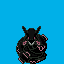
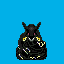
Update Rayquaza Statue

Changed region(s): [[0.25, 0.3438, 0.75, 1.0]]

diff --git a/src/data/object_events/object_event_graphics_info_pointers.h b/src/data/object_events/object_event_graphics_info_pointers.h
@@ -40,6 +40,7 @@ const struct ObjectEventGraphicsInfo gObjectEventGraphicsInfo_SchoolKidM;
 const struct ObjectEventGraphicsInfo gObjectEventGraphicsInfo_Maniac;
 const struct ObjectEventGraphicsInfo gObjectEventGraphicsInfo_HexManiac;
 const struct ObjectEventGraphicsInfo gObjectEventGraphicsInfo_RayquazaStill;
+const struct ObjectEventGraphicsInfo gObjectEventGraphicsInfo_RayquazaStatue;
 const struct ObjectEventGraphicsInfo gObjectEventGraphicsInfo_SwimmerM;
 const struct ObjectEventGraphicsInfo gObjectEventGraphicsInfo_SwimmerF;
 const struct ObjectEventGraphicsInfo gObjectEventGraphicsInfo_BlackBelt;
@@ -296,6 +297,7 @@ const struct ObjectEventGraphicsInfo *const gObjectEventGraphicsInfoPointers[NUM
     [OBJ_EVENT_GFX_MANIAC] =                   &gObjectEventGraphicsInfo_Maniac,
     [OBJ_EVENT_GFX_HEX_MANIAC] =               &gObjectEventGraphicsInfo_HexManiac,
     [OBJ_EVENT_GFX_RAYQUAZA_STILL] =           &gObjectEventGraphicsInfo_RayquazaStill,
+    [OBJ_EVENT_GFX_RAYQUAZA_STATUE] =          &gObjectEventGraphicsInfo_RayquazaStatue,
     [OBJ_EVENT_GFX_SWIMMER_M] =                &gObjectEventGraphicsInfo_SwimmerM,
     [OBJ_EVENT_GFX_SWIMMER_F] =                &gObjectEventGraphicsInfo_SwimmerF,
     [OBJ_EVENT_GFX_BLACK_BELT] =               &gObjectEventGraphicsInfo_BlackBelt,
@@ -424,7 +426,7 @@ const struct ObjectEventGraphicsInfo *const gObjectEventGraphicsInfoPointers[NUM
     [OBJ_EVENT_GFX_BIG_CHARIZARD_DOLL] =       &gObjectEventGraphicsInfo_BigCharizardDoll,
     [OBJ_EVENT_GFX_BIG_BLASTOISE_DOLL] =       &gObjectEventGraphicsInfo_BigBlastoiseDoll,
     [OBJ_EVENT_GFX_BIG_WAILMER_DOLL] =         &gObjectEventGraphicsInfo_BigWailmerDoll,
-    [OBJ_EVENT_GFX_BIG_REGIROCK_DOLL] =        &gObjectEventGraphicsInfo_BigRegirockDoll,
+    // [OBJ_EVENT_GFX_BIG_REGIROCK_DOLL] =        &gObjectEventGraphicsInfo_BigRegirockDoll,
     [OBJ_EVENT_GFX_BIG_REGICE_DOLL] =          &gObjectEventGraphicsInfo_BigRegiceDoll,
     [OBJ_EVENT_GFX_BIG_REGISTEEL_DOLL] =       &gObjectEventGraphicsInfo_BigRegisteelDoll,
     [OBJ_EVENT_GFX_LATIAS] =                   &gObjectEventGraphicsInfo_Latias,

diff --git a/src/data/object_events/object_event_graphics_info.h b/src/data/object_events/object_event_graphics_info.h
@@ -265,3 +265,5 @@ const struct ObjectEventGraphicsInfo gObjectEventGraphicsInfo_BigWailmerDoll = {
 const struct ObjectEventGraphicsInfo gObjectEventGraphicsInfo_BigRegirockDoll = {TAG_NONE, OBJ_EVENT_PAL_TAG_NPC_1, OBJ_EVENT_PAL_TAG_NONE, 512, 32, 32, 2, SHADOW_SIZE_M, TRUE, FALSE, TRACKS_NONE, &gObjectEventBaseOam_32x32, sOamTables_32x32, sAnimTable_Inanimate, sPicTable_BigRegirockDoll, gDummySpriteAffineAnimTable};
 const struct ObjectEventGraphicsInfo gObjectEventGraphicsInfo_BigRegiceDoll = {TAG_NONE, OBJ_EVENT_PAL_TAG_NPC_3, OBJ_EVENT_PAL_TAG_NONE, 512, 32, 32, 4, SHADOW_SIZE_M, TRUE, FALSE, TRACKS_NONE, &gObjectEventBaseOam_32x32, sOamTables_32x32, sAnimTable_Inanimate, sPicTable_BigRegiceDoll, gDummySpriteAffineAnimTable};
 const struct ObjectEventGraphicsInfo gObjectEventGraphicsInfo_BigRegisteelDoll = {TAG_NONE, OBJ_EVENT_PAL_TAG_NPC_4, OBJ_EVENT_PAL_TAG_NONE, 512, 32, 32, 5, SHADOW_SIZE_M, TRUE, FALSE, TRACKS_NONE, &gObjectEventBaseOam_32x32, sOamTables_32x32, sAnimTable_Inanimate, sPicTable_BigRegisteelDoll, gDummySpriteAffineAnimTable};
+
+const struct ObjectEventGraphicsInfo gObjectEventGraphicsInfo_RayquazaStatue = {TAG_NONE, OBJ_EVENT_PAL_RAYQUAZA_STATUE, OBJ_EVENT_PAL_TAG_NONE, 2048, 64, 64, 4, SHADOW_SIZE_M, FALSE, TRUE, TRACKS_FOOT, &gObjectEventBaseOam_64x64, sOamTables_64x64, sAnimTable_Standard, sPicTable_RayquazaStatue, gDummySpriteAffineAnimTable};

diff --git a/src/event_object_movement.c b/src/event_object_movement.c
@@ -458,7 +458,9 @@ const u8 gInitialMovementTypeFacingDirections[] = {
 #define OBJ_EVENT_PAL_TAG_DYNAMIC                 0x1124
 #define OBJ_EVENT_PAL_MOM                         0x1125
 #define OBJ_EVENT_PAL_OVERWORLD_SNORLAX           0x1126
-#define OBJ_EVENT_PAL_DAD               0x1127
+#define OBJ_EVENT_PAL_DAD                         0x1127
+#define OBJ_EVENT_PAL_RAYQUAZA                    0x1128
+#define OBJ_EVENT_PAL_RAYQUAZA_STATUE             0x1129
 #define OBJ_EVENT_PAL_TAG_LIGHT                   0x8001
 #define OBJ_EVENT_PAL_TAG_EMOTES                  0x8002
 #define OBJ_EVENT_PAL_TAG_NONE 0x11FF
@@ -514,6 +516,8 @@ static const struct SpritePalette sObjectEventSpritePalettes[] = {
     {gObjectEventPalette_Mom, OBJ_EVENT_PAL_MOM},
     {gObjectEventPalette_OverworldSnorlax, OBJ_EVENT_PAL_OVERWORLD_SNORLAX},
     {gObjectEventPalette_Dad, OBJ_EVENT_PAL_DAD},
+    {gObjectEventPalette_Rayquaza, OBJ_EVENT_PAL_RAYQUAZA},
+    {gObjectEventPalette_RayquazaStatue, OBJ_EVENT_PAL_RAYQUAZA_STATUE},
     {NULL,                  0x0000},
 };
 

diff --git a/src/data/object_events/object_event_graphics.h b/src/data/object_events/object_event_graphics.h
@@ -810,3 +810,7 @@ const u16 gObjectEventPaletteEmotes[] = INCBIN_U16("graphics/misc/emotes.gbapal"
 const u16 gObjectEventPalette_Mom[] = INCBIN_U16("graphics/object_events/pics/people/mom.gbapal");
 const u16 gObjectEventPalette_Dad[] = INCBIN_U16("graphics/object_events/pics/people/gym_leaders/norman.gbapal");
 const u16 gObjectEventPalette_OverworldSnorlax[] = INCBIN_U16("graphics/object_events/pics/misc/overworld_snorlax.gbapal");
+
+const u32 gObjectEventPic_RayquazaStatue[] = INCBIN_U32("graphics/object_events/pics/misc/rayquaza_statue.4bpp");
+const u16 gObjectEventPalette_RayquazaStatue[] = INCBIN_U16("graphics/object_events/pics/misc/rayquaza_statue.gbapal");
+const u16 gObjectEventPalette_Rayquaza[] = INCBIN_U16("graphics/pokemon/rayquaza/normal.gbapal");

diff --git a/src/data/object_events/object_event_pic_tables.h b/src/data/object_events/object_event_pic_tables.h
@@ -5643,3 +5643,15 @@ static const struct SpriteFrameImage sPicTable_Gliscor[] = {
     overworld_frame(gObjectEventPic_Gliscor, 4, 4, 4),
     overworld_frame(gObjectEventPic_Gliscor, 4, 4, 5),
 };
+
+static const struct SpriteFrameImage sPicTable_RayquazaStatue[] = {
+    obj_frame_tiles(gObjectEventPic_RayquazaStatue),
+    obj_frame_tiles(gObjectEventPic_RayquazaStatue),
+    obj_frame_tiles(gObjectEventPic_RayquazaStatue),
+    obj_frame_tiles(gObjectEventPic_RayquazaStatue),
+    obj_frame_tiles(gObjectEventPic_RayquazaStatue),
+    obj_frame_tiles(gObjectEventPic_RayquazaStatue),
+    obj_frame_tiles(gObjectEventPic_RayquazaStatue),
+    obj_frame_tiles(gObjectEventPic_RayquazaStatue),
+    obj_frame_tiles(gObjectEventPic_RayquazaStatue),
+};

diff --git a/src/data/decoration/header.h b/src/data/decoration/header.h
@@ -1308,6 +1308,7 @@ const struct Decoration gDecorations[] =
         .tiles = DecorGfx_WAILMER_DOLL,
     },
 
+    /*
     [DECOR_REGIROCK_DOLL] =
     {
         .id = DECOR_REGIROCK_DOLL,
@@ -1319,6 +1320,7 @@ const struct Decoration gDecorations[] =
         .description = DecorDesc_REGIROCK_DOLL,
         .tiles = DecorGfx_REGIROCK_DOLL,
     },
+    */
 
     [DECOR_REGICE_DOLL] =
     {

diff --git a/include/constants/event_objects.h b/include/constants/event_objects.h
@@ -173,7 +173,7 @@
 #define OBJ_EVENT_GFX_BIG_BLASTOISE_DOLL         168
 #define OBJ_EVENT_GFX_BIG_WAILMER_DOLL           169
 //
-#define OBJ_EVENT_GFX_BIG_REGIROCK_DOLL          170
+#define OBJ_EVENT_GFX_RAYQUAZA_STATUE             170
 #define OBJ_EVENT_GFX_BIG_REGICE_DOLL            171
 #define OBJ_EVENT_GFX_BIG_REGISTEEL_DOLL         172
 

diff --git a/src/data/decoration/tiles.h b/src/data/decoration/tiles.h
@@ -593,9 +593,11 @@ const u16 DecorGfx_WAILMER_DOLL[] = {
     OBJ_EVENT_GFX_BIG_WAILMER_DOLL
 };
 
+/*
 const u16 DecorGfx_REGIROCK_DOLL[] = {
     OBJ_EVENT_GFX_BIG_REGIROCK_DOLL
 };
+*/
 
 const u16 DecorGfx_REGICE_DOLL[] = {
     OBJ_EVENT_GFX_BIG_REGICE_DOLL
